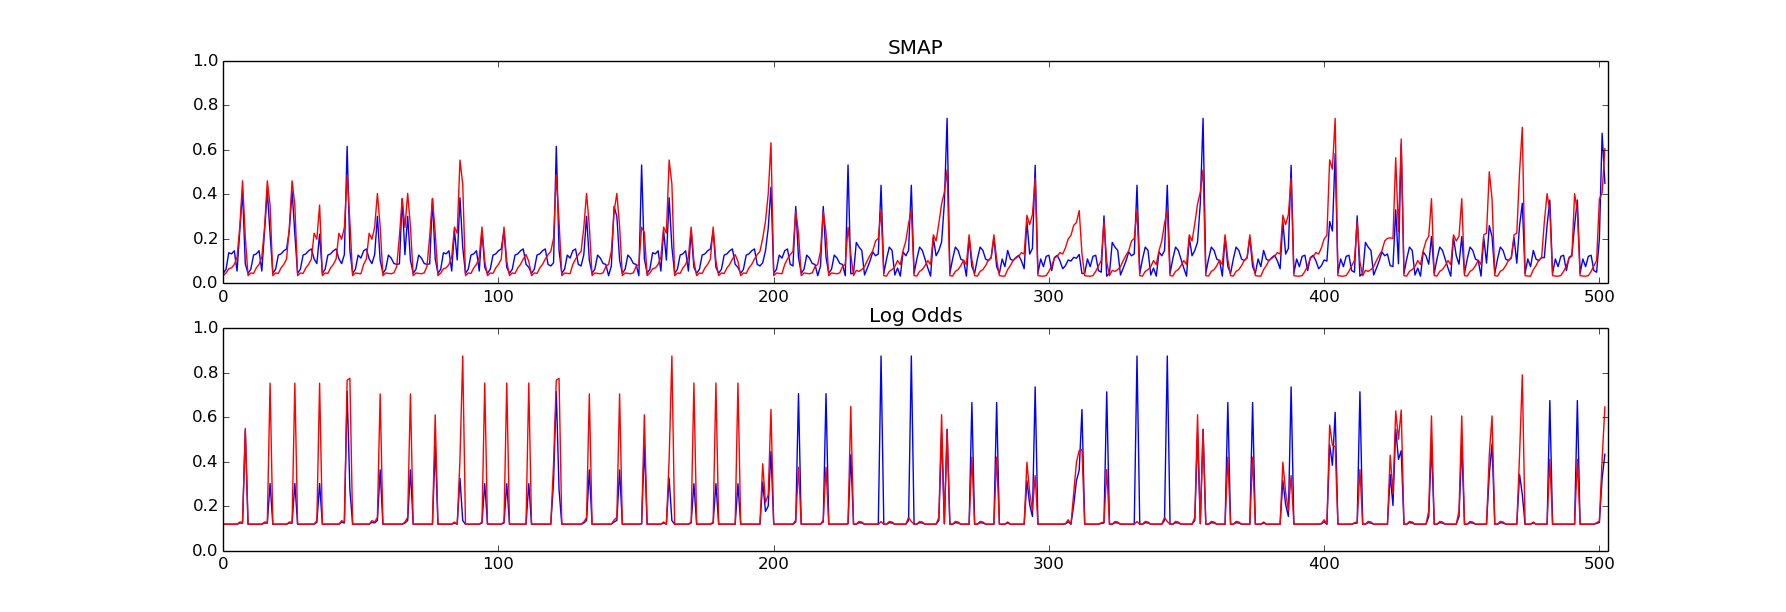
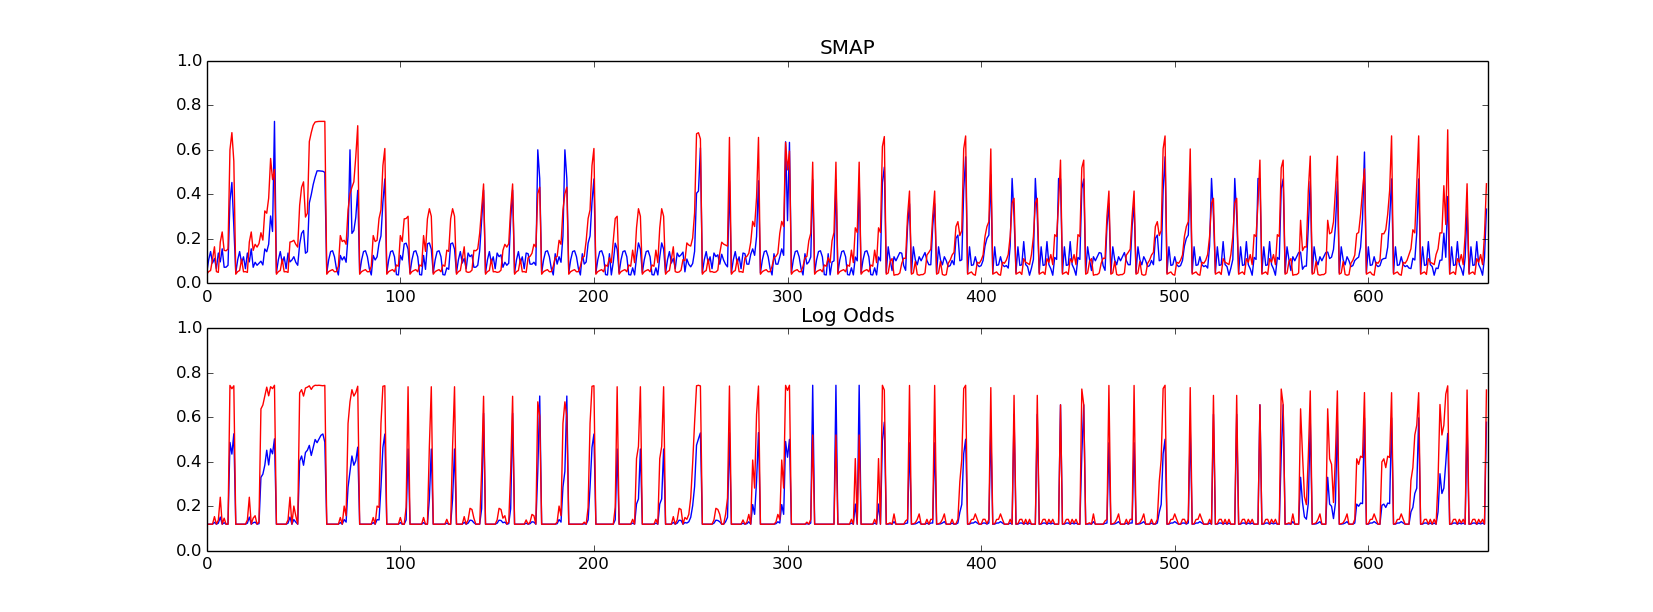
Generating plots for 600 steps. Inconsistencies plots wrong?

diff --git a/stats/Plot.py b/stats/Plot.py
@@ -28,6 +28,9 @@ class Results:
         self.lastStepCorrectedFig = plt.figure('Corrected Inconsistencies at last step')
         self.axisLastCorrectedHybrid = self.lastStepCorrectedFig.add_subplot(211)
         self.axisLastCorrected_logOdds = self.lastStepCorrectedFig.add_subplot(212)
+        self.firstStepCorrectedFig = plt.figure('Corrected Inconsistencies at first step')
+        self.axisFirstCorrectedHybrid = self.firstStepCorrectedFig.add_subplot(211)
+        self.axisFirstCorrected_logOdds = self.firstStepCorrectedFig.add_subplot(212)
         self.fig_fullError = plt.figure('Mean Absolute Error (MAE) Evolution over all Voxels')
         self.axis_fullError = self.fig_fullError.add_subplot(111)
         box = self.axis_fullError.get_position()
@@ -122,7 +125,10 @@ class Results:
 
         plt.sca(self.axisCorrelation)
         plt.cla()
-        plt.title("Pearson Correlation Coefficient between Absolute Error and Mapping Variance")
+        plt.title("Absolute Distance between Absolute Error and Mapping Std Dev")
+        plt.xlabel("Steps")
+        plt.ylabel("Absolute Distance")
+
 
         def my_pearson(x, y):
             r, _ = pearsonr(x, y)
@@ -130,24 +136,42 @@ class Results:
         pccBelief = []
         pccLogOdds = []
         start = 0
-        #for step in range(stats.step):
-        #    #print("Computing PCC...")
-        #    #print("Updated Voxels: %i" % stats.updatedVoxels[step])
-        #    pcc = my_pearson(
-        #        np.abs(np.array(stats.errorCompleteUpdatedBelief[start:start + stats.updatedVoxels[step]])),
-        #        stats.stdCompleteUpdatedBelief[start:start + stats.updatedVoxels[step]])
-        #    pccBelief.append(pcc)
-        #    pcc = my_pearson(
-        #        np.abs(np.array(stats.errorCompleteUpdatedLogOdds[start:start + stats.updatedVoxels[step]])),
-        #        stats.stdCompleteUpdatedLogOdds[start:start + stats.updatedVoxels[step]])
-        #    pccLogOdds.append(pcc)
-        #    start += stats.updatedVoxels[step]
-        #plt.plot(pccBelief, label="PY " + beliefName)
-        #plt.plot(pccLogOdds, label="PY " + logOddsName)
+        for step in range(stats.step):
+            #print("Computing PCC...")
+            #print("Updated Voxels: %i" % stats.updatedVoxels[step])
+            pcc = my_pearson(
+                np.abs(np.array(stats.errorCompleteUpdatedBelief[start:start + stats.updatedVoxels[step]])),
+                stats.stdCompleteUpdatedBelief[start:start + stats.updatedVoxels[step]])
+            pccBelief.append(pcc)
+            pcc = my_pearson(
+                np.abs(np.array(stats.errorCompleteUpdatedLogOdds[start:start + stats.updatedVoxels[step]])),
+                stats.stdCompleteUpdatedLogOdds[start:start + stats.updatedVoxels[step]])
+            pccLogOdds.append(pcc)
+            start += stats.updatedVoxels[step]
+        plt.plot(pccBelief, label="PY " + beliefName)
+        plt.plot(pccLogOdds, label="PY " + logOddsName)
         plt.plot(np.array(stats.stdErrorCorrelationBelief), label=beliefName)
+        stats.stdErrorCorrelationLogOdds = np.array(stats.stdErrorCorrelationLogOdds)
+        last_finite = 1.
+        for i in range(len(stats.stdErrorCorrelationLogOdds)):
+            if np.isfinite(stats.stdErrorCorrelationLogOdds[i]):
+                last_finite = stats.stdErrorCorrelationLogOdds[i]
+            else:
+                stats.stdErrorCorrelationLogOdds[i] = last_finite
+
+        mask = np.isfinite(stats.stdErrorCorrelationLogOdds)
+        #stats.stdErrorCorrelationLogOdds[~mask] = 0
         plt.plot(np.array(stats.stdErrorCorrelationLogOdds), label=logOddsName)
+        smoothedCorrelationBelief = np.convolve(stats.stdErrorCorrelationBelief, np.ones(100) / 100)
+        smoothedCorrelationLogOdds = np.convolve(stats.stdErrorCorrelationLogOdds, np.ones(100) / 100)
+        mask = np.isfinite(smoothedCorrelationLogOdds)
+        xs = np.array(list(range(len(stats.stdErrorCorrelationLogOdds)+100)))
+        plt.plot(smoothedCorrelationBelief, label="100 Point Moving Avg SMAP")
+        plt.plot(xs[mask], smoothedCorrelationLogOdds[mask], label="100 Point Moving Avg Log Odds")
         plt.legend(loc='upper right', bbox_to_anchor=(1, .5),
                    ncol=1, fancybox=True, shadow=True).draggable()
+        self.axisCorrelation.set_xlim([0, len(stats.stdErrorCorrelationBelief)])
+        #self.axisCorrelation.set_ylim([0, 1])
 
 
 
@@ -178,9 +202,10 @@ class Results:
         plt.plot(-stdLastLogOdds * self.mag, 'r')
         plt.plot(stdLastLogOdds * self.mag, 'r')
 
-
-        if len(stats.errorCompleteUpdatedBelief) == 0 or len(stats.errorCompleteUpdatedLogOdds) == 0:
-            return
+        # TODO remove
+        #return
+        #if len(stats.errorCompleteUpdatedBelief) == 0 or len(stats.errorCompleteUpdatedLogOdds) == 0:
+        #    return
 
         plt.sca(self.axisErrorStdDiff1)
         plt.cla()
@@ -292,8 +317,8 @@ class Results:
         self.axisLastHybrid.set_xlim([0, stats.updatedVoxels[-1]])
 
 
-        plt.plot(stats.errorCompleteUpdatedBelief[-stats.updatedVoxels[-1]:])
-        plt.plot(-stdLastBelief * self.mag, 'r')
+        plt.plot(np.abs(stats.errorCompleteUpdatedBelief[-stats.updatedVoxels[-1]:]))
+        #plt.plot(-stdLastBelief * self.mag, 'r')
         plt.plot(stdLastBelief * self.mag, 'r')
 
         # add scatter of inconsistencies
@@ -309,8 +334,8 @@ class Results:
         plt.cla()
         plt.title("Log Odds")
         self.axisLast_logOdds.set_xlim([0, stats.updatedVoxels[-1]])
-        plt.plot(stats.errorCompleteUpdatedLogOdds[-stats.updatedVoxels[-1]:])
-        plt.plot(-stdLastLogOdds * self.mag, 'r')
+        plt.plot(np.abs(stats.errorCompleteUpdatedLogOdds[-stats.updatedVoxels[-1]:]))
+        #plt.plot(-stdLastLogOdds * self.mag, 'r')
         plt.plot(stdLastLogOdds * self.mag, 'r')
 
         # add scatter of inconsistencies
@@ -410,6 +435,50 @@ class Results:
 
         plt.pause(1e-6)
 
+        stdFirstBelief = np.abs(np.array(stats.stdCompleteUpdatedBelief[:stats.updatedVoxels[0]]))
+        stdFirstLogOdds = np.abs(np.array(stats.stdCompleteUpdatedLogOdds[:stats.updatedVoxels[0]]))
+        plt.sca(self.axisFirstCorrectedHybrid)
+        plt.cla()
+        plt.title("SMAP")
+        self.axisFirstCorrectedHybrid.set_xlim([0, stats.updatedVoxels[0]])
+        self.axisFirstCorrectedHybrid.set_ylim([0, 1])
+
+        errorBelief = np.abs(stats.errorCompleteUpdatedBelief[:stats.updatedVoxels[0]])
+        plt.plot(errorBelief)
+        correctedBeliefStd = correct(stdFirstBelief, errorBelief)
+        plt.plot(correctedBeliefStd, 'r')
+
+        # add scatter of inconsistencies
+        # lb = np.array(-stdFirstBelief * self.mag)
+        # ub = np.array(stdFirstBelief * self.mag)
+        # err = np.array(stats.errorCompleteUpdatedBelief[-stats.updatedVoxels[-1]:])
+        # inconsistencies = err[(err > ub) | (err < lb)]
+        # indices = np.array(list(range(stats.updatedVoxels[-1])))
+        # indices = indices[(err > ub) | (err < lb)]
+        # plt.scatter(indices, inconsistencies, c='g', edgecolor='g')
+
+        plt.sca(self.axisFirstCorrected_logOdds)
+        plt.cla()
+        plt.title("Log Odds")
+        self.axisFirstCorrected_logOdds.set_xlim([0, stats.updatedVoxels[0]])
+        self.axisFirstCorrected_logOdds.set_ylim([0, 1])
+
+        errorLogOdds = np.abs(stats.errorCompleteUpdatedLogOdds[:stats.updatedVoxels[0]])
+        plt.plot(errorLogOdds)
+        correctedLogOddsStd = correct(stdFirstLogOdds, errorLogOdds)
+        plt.plot(correctedLogOddsStd, 'r')
+
+        # add scatter of inconsistencies
+        # lb = np.array(-stdFirstLogOdds * self.mag)
+        # ub = np.array(stdFirstLogOdds * self.mag)
+        # err = np.array(stats.errorCompleteUpdatedLogOdds[-stats.updatedVoxels[-1]:])
+        # inconsistencies = err[(err > ub) | (err < lb)]
+        # indices = np.array(list(range(stats.updatedVoxels[-1])))
+        # indices = indices[(err > ub) | (err < lb)]
+        # plt.scatter(indices, inconsistencies, c='g', edgecolor='g')
+
+        plt.pause(1e-6)
+
 
 
 
@@ -435,9 +504,9 @@ class Results:
         plt.sca(self.axisHybrid)
         plt.cla()
         plt.title("SMAP")
-        plt.plot(stats.errorCompleteUpdatedBelief[:stats.updatedVoxels[0]])
+        plt.plot(np.abs(stats.errorCompleteUpdatedBelief[:stats.updatedVoxels[0]]))
         self.axisHybrid.set_xlim([0, stats.updatedVoxels[0]])
-        plt.plot(-stdLastBelief * self.mag, 'r')
+        #plt.plot(-stdLastBelief * self.mag, 'r')
         plt.plot(stdLastBelief * self.mag, 'r')
 
         # add scatter of inconsistencies
@@ -453,9 +522,9 @@ class Results:
         plt.sca(self.axis_logOdds)
         plt.cla()
         plt.title("Log Odds")
-        plt.plot(stats.errorCompleteUpdatedLogOdds[:stats.updatedVoxels[0]])
+        plt.plot(np.abs(stats.errorCompleteUpdatedLogOdds[:stats.updatedVoxels[0]]))
         self.axis_logOdds.set_xlim([0, stats.updatedVoxels[0]])
-        plt.plot(-stdLastLogOdds * self.mag, 'r')
+        #plt.plot(-stdLastLogOdds * self.mag, 'r')
         plt.plot(stdLastLogOdds * self.mag, 'r')
 
         # add scatter of inconsistencies

diff --git a/src/main.cpp b/src/main.cpp
@@ -31,7 +31,7 @@ Statistics *stats;
 void handleObservation(const Observation &observation)
 {
     trueMap.publish();
-    //robot.publish();
+    robot.publish();
     beliefMap.update(observation, trueMap);
     logOddsMap.update(observation, trueMap);
 
@@ -77,7 +77,7 @@ int main(int argc, char **argv)
     robot.sensor().subscribe(std::bind(&Visualizer::publishStereoCameraSensor, visualizer, std::placeholders::_1));
     robot.registerObserver(&handleObservation);
     #if defined(PLANNER_2D_TEST)
-        for (unsigned int splineId = 0; splineId < 3; splineId++)
+        for (unsigned int splineId = 0; splineId < robot.splines().size(); splineId++)
         {
             beliefMap.reset();
             logOddsMap.reset();

diff --git a/include/Parameters.hpp b/include/Parameters.hpp
@@ -7,7 +7,7 @@
 //#define FAKE_2D
 //#define PLANNER_2D_TEST
 #define FAKE_3D
-#define MANY_STEPS
+//#define MANY_STEPS
 
 class Parameters
 {
@@ -25,7 +25,7 @@ public:
     // Fake sensor measurements
     //
     static const bool deterministicSensorMeasurements = false;
-    static const unsigned int FakeRobotNumSteps = 1000;
+    static const unsigned int FakeRobotNumSteps = 600;
 
     //
     // Real sensor measurements
